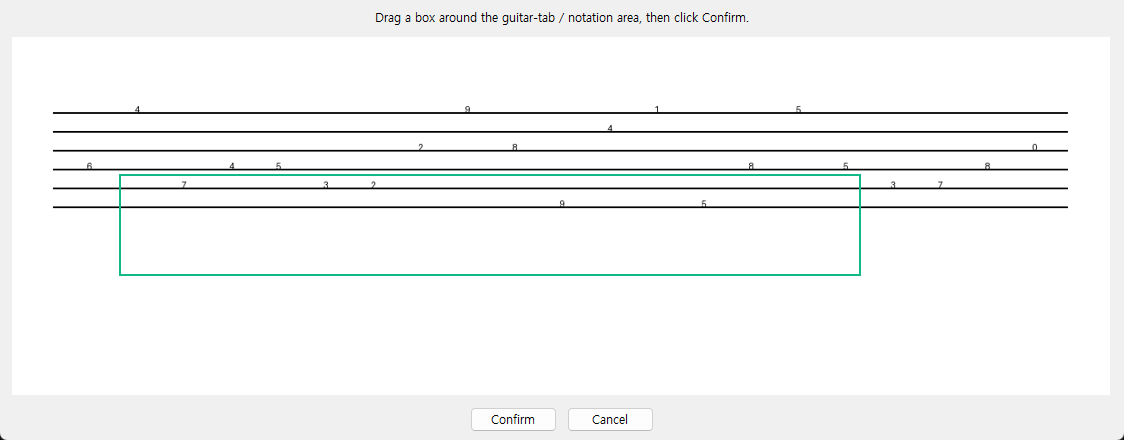
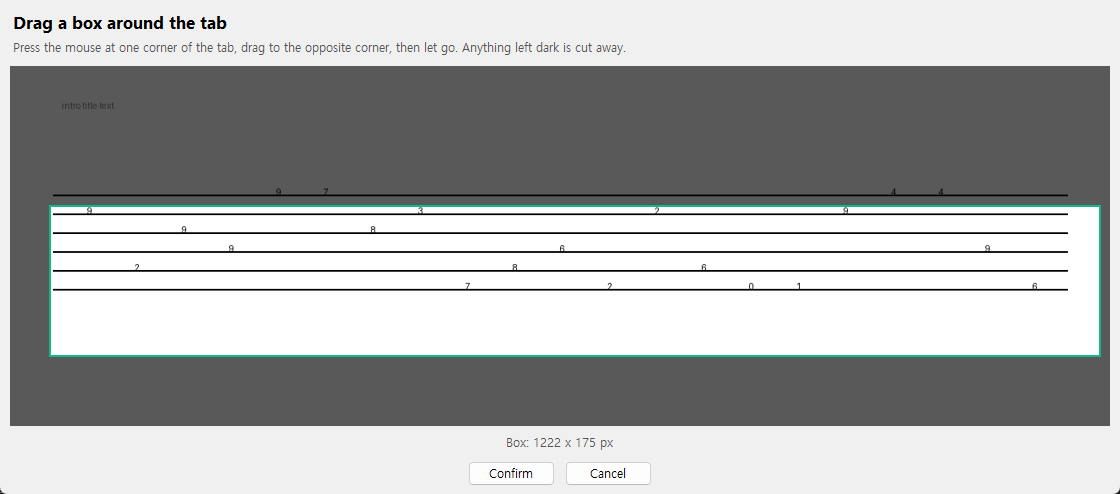
v1.1.2: fix slow macOS launch, make the crop step obvious
macOS launch: the .app was built with --onefile, so every launch
unpacked ~200MB to a temp dir. That takes many seconds, and macOS
shows nothing while it happens, so it reads as "the app didn't open".
People double-click again, which starts another copy and makes it
slower still -- reported as needing about ten clicks to get one
window. A .app is already a folder, so onefile bought nothing here;
switch macOS to --onedir and it starts at once. Windows stays
--onefile, where a single .exe is the point.

Crop step: the old dialog drew a thin outline and left the rest of the
frame untouched, so it was easy to miss what the box actually did. Now
everything outside the box is darkened, so the part being kept is
obvious. Also added a hint on the image itself before the first drag,
a live size readout, Enter/Escape keys, coordinates clamped to the
image, and Confirm stays disabled until the box is big enough to be a
real drag rather than a stray click.

Fixes a crash found while testing this: the selector stored the image
size in self._w, which is the attribute tkinter uses for a widget's
path name, so building the dialog failed outright.

diff --git a/app.py b/app.py
@@ -28,7 +28,7 @@ except ImportError:
 
 import tkinter as tk
 from tkinter import ttk, filedialog, messagebox
-from PIL import Image, ImageTk
+from PIL import Image, ImageEnhance, ImageTk
 
 from clear_files import clear_all
 from download_frames import download
@@ -192,6 +192,9 @@ class RegionSelector(tk.Toplevel):
     matching region_selector.prompt_coords so extract_tab can use it unchanged.
     """
 
+    MIN_BOX = 10          # display pixels; smaller is a stray click, not a drag
+    DIM = 0.35            # brightness of the area that will be cut away
+
     def __init__(self, master, image_path, on_done):
         super().__init__(master)
         self.title("Select the tab area")
@@ -201,57 +204,154 @@ class RegionSelector(tk.Toplevel):
         img = Image.open(image_path)
         max_w, max_h = 1100, 680
         self.scale = min(max_w / img.width, max_h / img.height, 1.0)
-        disp = img.resize((max(1, int(img.width * self.scale)),
-                           max(1, int(img.height * self.scale))))
-        self.tkimg = ImageTk.PhotoImage(disp)
+        self._bright = img.resize((max(1, int(img.width * self.scale)),
+                                   max(1, int(img.height * self.scale))))
+        self._img_w, self._img_h = self._bright.size
 
-        ttk.Label(
-            self,
-            text="Drag a box around the guitar-tab / notation area, then click Confirm.",
-            padding=8,
-        ).pack()
+        # Two copies of the frame: the real one, and a darkened one. Before any
+        # drag the bright copy is shown so the tab is easy to read. Once a box
+        # exists the dark copy becomes the background and only the box is drawn
+        # bright on top, so what will be kept is obvious at a glance.
+        self._tk_bright = ImageTk.PhotoImage(self._bright)
+        self._tk_dim = ImageTk.PhotoImage(
+            ImageEnhance.Brightness(self._bright).enhance(self.DIM))
+        self._tk_reveal = None
 
-        self.canvas = tk.Canvas(self, width=disp.width, height=disp.height, cursor="cross")
-        self.canvas.pack(padx=10)
-        self.canvas.create_image(0, 0, anchor="nw", image=self.tkimg)
+        head = ttk.Frame(self, padding=(10, 8, 10, 2))
+        head.pack(fill="x")
+        tk.Label(head, text="Drag a box around the tab",
+                 font=("Segoe UI", 13, "bold"), anchor="w").pack(fill="x")
+        tk.Label(head,
+                 text="Press the mouse at one corner of the tab, drag to the "
+                      "opposite corner, then let go. Anything left dark is cut away.",
+                 anchor="w", justify="left", fg="#555555").pack(fill="x")
+
+        self.canvas = tk.Canvas(self, width=self._img_w, height=self._img_h,
+                                cursor="cross", highlightthickness=0)
+        self.canvas.pack(padx=10, pady=6)
+        self._base = self.canvas.create_image(0, 0, anchor="nw", image=self._tk_bright)
+        self._rect = None
+        self._reveal = None
+        self._start = (0, 0)
+        self._box = None
+        self._redraw_pending = False
+
+        # A hint sitting on the image itself, where the user has to act. It goes
+        # away for good on the first press.
+        self._hint = self._make_hint()
+
         self.canvas.bind("<ButtonPress-1>", self._press)
         self.canvas.bind("<B1-Motion>", self._drag)
+        self.canvas.bind("<ButtonRelease-1>", self._drag)
 
-        self._start = None
-        self._rect = None
+        self.size_var = tk.StringVar(value="No box yet.")
+        tk.Label(self, textvariable=self.size_var, fg="#555555").pack()
 
         bar = ttk.Frame(self, padding=8)
         bar.pack()
-        self.confirm_btn = ttk.Button(bar, text="Confirm", command=self._confirm, state="disabled")
+        self.confirm_btn = ttk.Button(bar, text="Confirm", command=self._confirm,
+                                      state="disabled")
         self.confirm_btn.pack(side="left", padx=5)
         ttk.Button(bar, text="Cancel", command=self._cancel).pack(side="left", padx=5)
+
+        self.bind("<Return>", lambda e: self._confirm())
+        self.bind("<Escape>", lambda e: self._cancel())
 
         self.protocol("WM_DELETE_WINDOW", self._cancel)
         self.transient(master)
         self.grab_set()
         self.resizable(False, False)
 
+    def _make_hint(self):
+        """Text over the middle of the image telling the user what to do."""
+        cx, cy = self._img_w // 2, self._img_h // 2
+        text = self.canvas.create_text(cx, cy, text="Click and drag across the tab",
+                                       fill="#ffffff", font=("Segoe UI", 14, "bold"))
+        x0, y0, x1, y1 = self.canvas.bbox(text)
+        pad = 12
+        box = self.canvas.create_rectangle(x0 - pad, y0 - pad, x1 + pad, y1 + pad,
+                                           fill="#1c1c1c", outline="#12b886", width=2)
+        self.canvas.tag_raise(text, box)   # keep the text above its backing box
+        return (box, text)
+
+    def _clear_hint(self):
+        if self._hint:
+            for item in self._hint:
+                self.canvas.delete(item)
+            self._hint = None
+
+    def _clamp(self, x, y):
+        return (max(0, min(int(x), self._img_w - 1)),
+                max(0, min(int(y), self._img_h - 1)))
+
     def _press(self, e):
-        self._start = (e.x, e.y)
+        self._clear_hint()
+        self._start = self._clamp(e.x, e.y)
+        self.canvas.itemconfig(self._base, image=self._tk_dim)
         if self._rect:
             self.canvas.delete(self._rect)
-        self._rect = self.canvas.create_rectangle(e.x, e.y, e.x, e.y, outline="#12b886", width=2)
+        x, y = self._start
+        self._rect = self.canvas.create_rectangle(x, y, x, y, outline="#12b886", width=2)
+        self._drag(e)
 
     def _drag(self, e):
-        if self._start and self._rect:
-            self.canvas.coords(self._rect, self._start[0], self._start[1], e.x, e.y)
-            self.confirm_btn.config(state="normal")
+        if not self._rect:
+            return
+        x, y = self._clamp(e.x, e.y)
+        x0, x1 = sorted((self._start[0], x))
+        y0, y1 = sorted((self._start[1], y))
+        self._box = (x0, y0, x1, y1)
+        self.canvas.coords(self._rect, x0, y0, x1, y1)
+
+        big_enough = (x1 - x0) >= self.MIN_BOX and (y1 - y0) >= self.MIN_BOX
+        self.confirm_btn.config(state="normal" if big_enough else "disabled")
+        if big_enough:
+            # Report in source-image pixels, which is what actually gets cropped.
+            self.size_var.set("Box: %d x %d px"
+                              % (round((x1 - x0) / self.scale),
+                                 round((y1 - y0) / self.scale)))
+        else:
+            self.size_var.set("Too small so far -- keep dragging.")
+        self._schedule_reveal()
+
+    def _schedule_reveal(self):
+        """Repaint the bright cut-out, at most once per idle turn.
+
+        Motion events arrive faster than the image work behind a repaint, so
+        coalescing keeps the drag smooth on a large frame.
+        """
+        if not self._redraw_pending:
+            self._redraw_pending = True
+            self.after_idle(self._draw_reveal)
+
+    def _draw_reveal(self):
+        self._redraw_pending = False
+        if not self._box:
+            return
+        x0, y0, x1, y1 = self._box
+        if x1 - x0 < 1 or y1 - y0 < 1:
+            return
+        crop = self._bright.crop((x0, y0, x1, y1))
+        self._tk_reveal = ImageTk.PhotoImage(crop)   # hold a ref or Tk drops it
+        if getattr(self, "_reveal", None) is None:
+            self._reveal = self.canvas.create_image(x0, y0, anchor="nw",
+                                                    image=self._tk_reveal)
+        else:
+            self.canvas.coords(self._reveal, x0, y0)
+            self.canvas.itemconfig(self._reveal, image=self._tk_reveal)
+        self.canvas.tag_raise(self._rect, self._reveal)   # outline stays visible
 
     def _confirm(self):
-        x0, y0, x1, y1 = self.canvas.coords(self._rect)
-        xs = sorted((x0, x1))
-        ys = sorted((y0, y1))
-        if xs[1] - xs[0] < 5 or ys[1] - ys[0] < 5:
-            messagebox.showwarning("Too small", "Please drag a larger box.")
+        if not self._box:
             return
-        ix, ex = int(xs[0] / self.scale), int(xs[1] / self.scale)
-        iy, ey = int(ys[0] / self.scale), int(ys[1] / self.scale)
-        self._finish((iy, ix, ey, ex))
+        x0, y0, x1, y1 = self._box
+        if x1 - x0 < self.MIN_BOX or y1 - y0 < self.MIN_BOX:
+            messagebox.showwarning(
+                "Box too small",
+                "Drag a bigger box around the tab, then click Confirm.")
+            return
+        self._finish((int(y0 / self.scale), int(x0 / self.scale),
+                      int(y1 / self.scale), int(x1 / self.scale)))
 
     def _cancel(self):
         self._finish(None)
@@ -406,7 +506,7 @@ class App(tk.Tk):
     def select_region(self, image_path):
         self._region_bounds = None
         self._region_event.clear()
-        self.set_status("👉 Your turn: drag a box around the tab area in the pop-up window", "#e8590c")
+        self.set_status("👉 Your turn: in the pop-up, drag a box around the tab", "#e8590c")
         self.after(0, lambda: self._open_region(image_path))
         self._region_event.wait()
         if self._region_bounds is None:

diff --git a/version.py b/version.py
@@ -10,4 +10,4 @@ matching git tag `v<version>` (e.g. v1.2.0). CI refuses to build a release
 whose tag does not match this file.
 """
 
-APP_VERSION = "1.1.1"
+APP_VERSION = "1.1.2"
